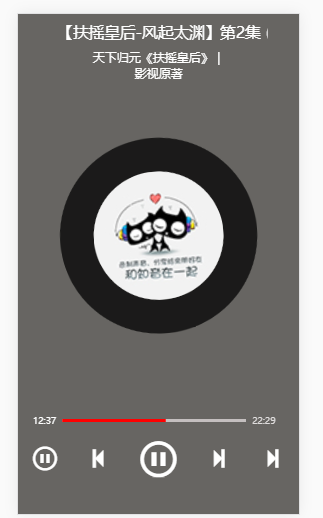
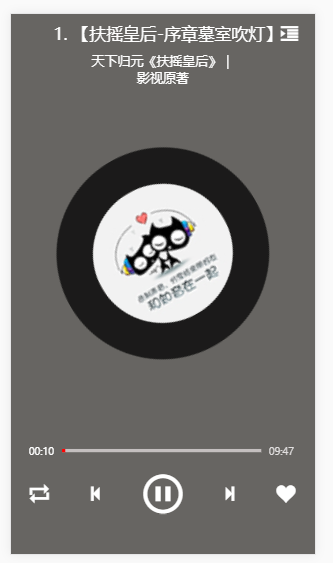
add

diff --git a/README.md b/README.md
@@ -18,7 +18,10 @@ npm run build
 For detailed explanation on how things work, consult the [docs for vue-loader](http://vuejs.github.io/vue-loader).
 
 ![ximalaya](https://github.com/nyz123/My-Front-end-knowledge/blob/develop/images/ximalaya.png)
+![program-detail](https://github.com/nyz123/My-Front-end-knowledge/blob/develop/images/program-detail.png)
+![program-list](https://github.com/nyz123/My-Front-end-knowledge/blob/develop/images/program-list.png)
 ![bofangqi](https://github.com/nyz123/My-Front-end-knowledge/blob/develop/images/bofangqi.png)
+![bofangqi-list](https://github.com/nyz123/My-Front-end-knowledge/blob/develop/images/bofangqi-list.png)
 
 
 
